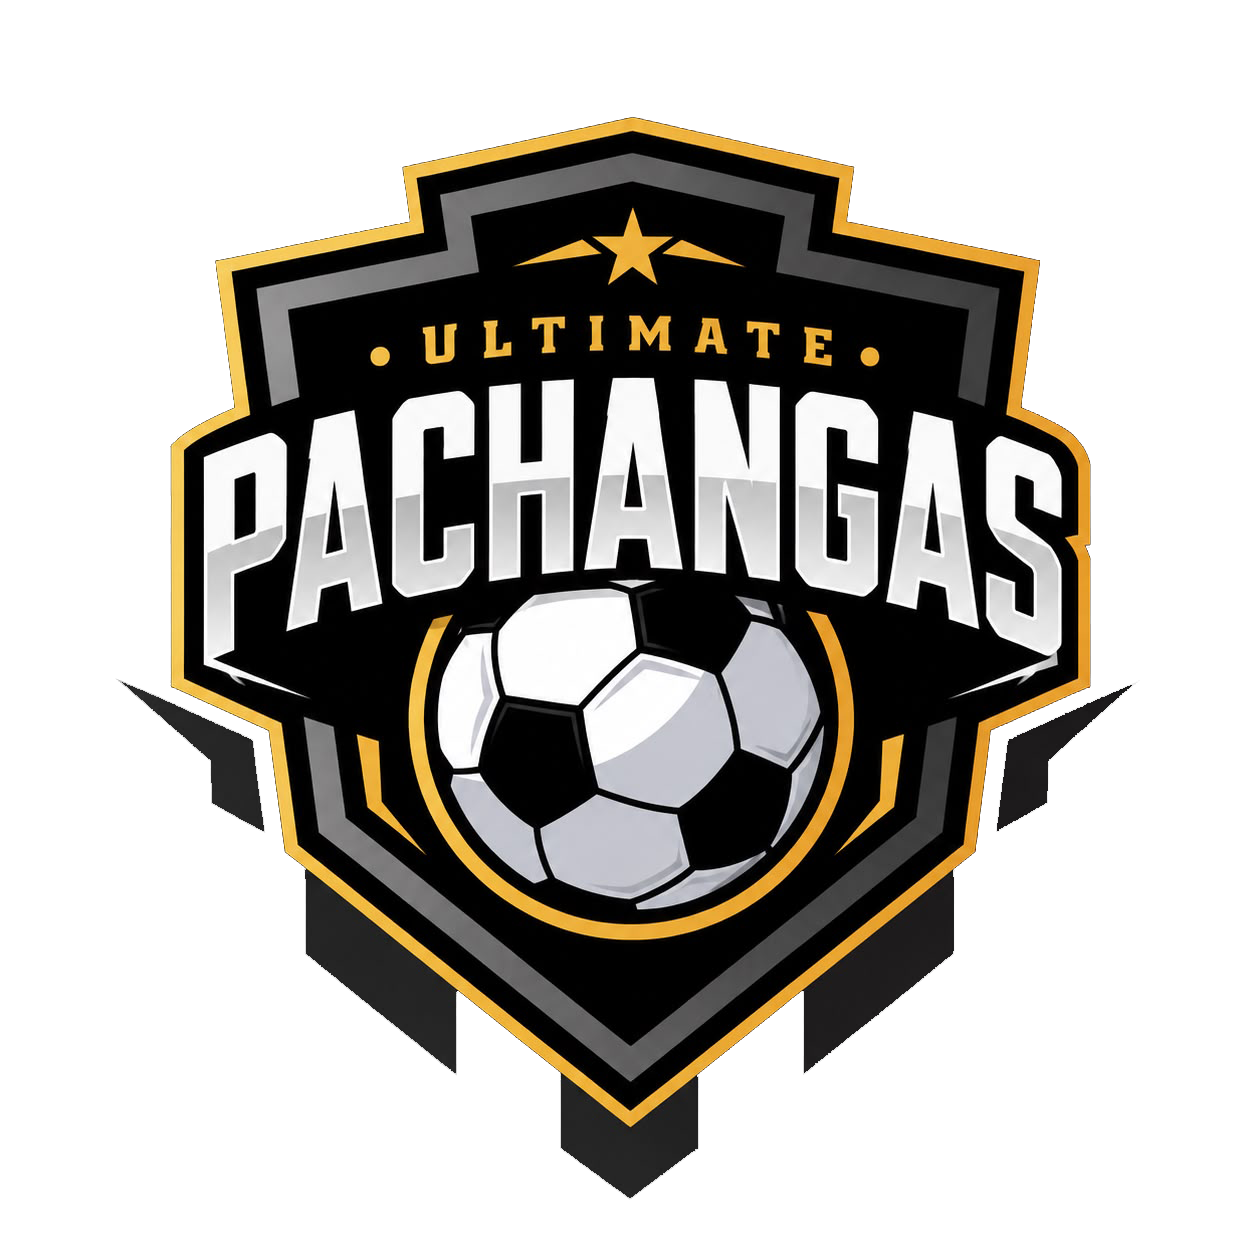
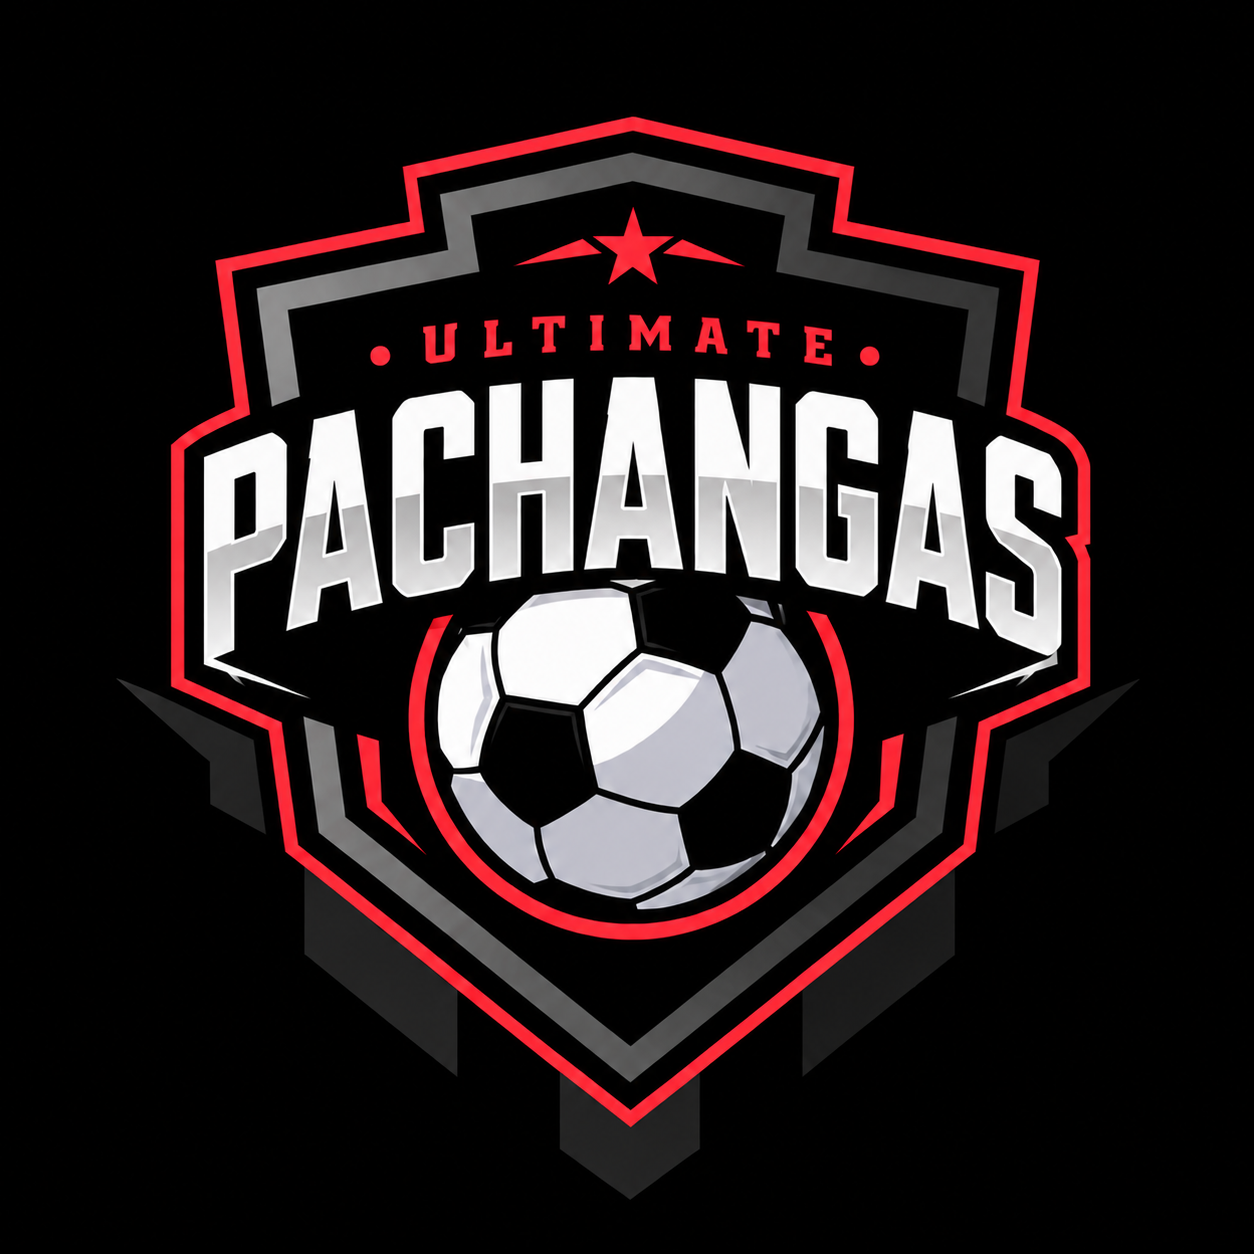
Rebrand Ultimate Pachangas with black surfaces and red accents

diff --git a/src/index.css b/src/index.css
@@ -8,8 +8,7 @@
 /* ---------------------------------------------------------------------------
    Ultimate Pachangas design tokens.
 
-   Dark is the default interface (<html class="dark">); the light palette is
-   kept so the app stays legible if the class is ever removed.
+   Black surfaces and a single red accent in mobile and desktop views.
    --------------------------------------------------------------------------- */
 
 @theme inline {
@@ -87,102 +86,39 @@
   --radius-4xl: calc(var(--radius) * 2.6);
 }
 
-:root {
-  --background: oklch(0.99 0.003 150);
-  --foreground: oklch(0.16 0.012 155);
-  --card: oklch(1 0 0);
-  --card-foreground: oklch(0.16 0.012 155);
-  --popover: oklch(1 0 0);
-  --popover-foreground: oklch(0.16 0.012 155);
-  --primary: oklch(0.5 0.15 148);
-  --primary-foreground: oklch(0.99 0 0);
-  --secondary: oklch(0.96 0.008 150);
-  --secondary-foreground: oklch(0.21 0.015 155);
-  --muted: oklch(0.96 0.008 150);
-  --muted-foreground: oklch(0.5 0.015 155);
-  --accent: oklch(0.94 0.03 148);
-  --accent-foreground: oklch(0.21 0.015 155);
-  --destructive: oklch(0.577 0.245 27.325);
-  --border: oklch(0.9 0.008 150);
-  --input: oklch(0.9 0.008 150);
-  --ring: oklch(0.5 0.15 148);
-  /* Chart series, in slot order.
-
-     Eight hues rather than five, because the evolution chart plots up to eight
-     players at once, and in a fixed order rather than cycled: the order is what
-     makes adjacent series distinguishable under protanopia and deuteranopia.
-     Kept as hex — these are the exact values a colour-vision validator was run
-     against, and rewriting them in oklch would lose that audit trail.
-
-     Three of the light steps (aqua, yellow, magenta) sit below 3:1 against a
-     white surface, so every chart that uses them labels its series in the
-     legend rather than relying on the colour alone. */
-  --chart-1: #2a78d6;
-  --chart-2: #eb6834;
-  --chart-3: #1baf7a;
-  --chart-4: #eda100;
-  --chart-5: #e87ba4;
-  --chart-6: #008300;
-  --chart-7: #4a3aa7;
-  --chart-8: #e34948;
-  --radius: 0.625rem;
-  --sidebar: oklch(0.98 0.005 150);
-  --sidebar-foreground: oklch(0.16 0.012 155);
-  --sidebar-primary: oklch(0.5 0.15 148);
-  --sidebar-primary-foreground: oklch(0.99 0 0);
-  --sidebar-accent: oklch(0.94 0.03 148);
-  --sidebar-accent-foreground: oklch(0.21 0.015 155);
-  --sidebar-border: oklch(0.9 0.008 150);
-  --sidebar-ring: oklch(0.5 0.15 148);
-
-  --pitch: oklch(0.45 0.13 148);
-  --tier-gold: oklch(0.82 0.15 88);
-  --tier-gold-dim: oklch(0.6 0.12 78);
-  --tier-silver: oklch(0.8 0.012 250);
-  --tier-silver-dim: oklch(0.58 0.012 250);
-  --tier-bronze: oklch(0.66 0.11 55);
-  --tier-bronze-dim: oklch(0.46 0.09 48);
-
-  /* Light theme keeps the metal bright, so the face is a pale tint and the
-     text on it stays dark. */
-  --tier-gold-face: oklch(0.93 0.07 90);
-  --tier-gold-face-deep: oklch(0.83 0.11 82);
-  --tier-silver-face: oklch(0.94 0.008 250);
-  --tier-silver-face-deep: oklch(0.85 0.012 250);
-  --tier-bronze-face: oklch(0.9 0.05 58);
-  --tier-bronze-face-deep: oklch(0.78 0.09 50);
-  --attribute-positive: oklch(0.55 0.15 148);
-  --attribute-negative: oklch(0.55 0.19 25);
-}
-
+/* One fixed dark brand palette, shared by every surface and native control.
+   Tier identifiers retain their scoring meaning; their presentation is red/neutral. */
+:root,
 .dark {
-  --background: #0c0d0f;
-  --foreground: #f5f5f3;
-  --card: #191b1f;
-  --card-foreground: #f5f5f3;
-  --popover: #22252a;
-  --popover-foreground: #f5f5f3;
-  --primary: #78b4ff;
-  --primary-foreground: #101923;
-  --secondary: #292c32;
-  --secondary-foreground: #f5f5f3;
-  --muted: #24272c;
-  --muted-foreground: #adb1ba;
-  --accent: #223249;
-  --accent-foreground: #f5f5f3;
-  --destructive: #ff858c;
-  --border: #35383f;
-  --input: #454951;
+  color-scheme: dark;
+  --background: #080808;
+  --foreground: #f5f5f5;
+  --card: #181818;
+  --card-foreground: var(--foreground);
+  --popover: #222222;
+  --popover-foreground: var(--foreground);
+  --primary: #ff4b55;
+  --primary-foreground: #180809;
+  --secondary: #292929;
+  --secondary-foreground: var(--foreground);
+  --muted: #242424;
+  --muted-foreground: #b5b5b5;
+  --accent: #35191c;
+  --accent-foreground: var(--foreground);
+  --destructive: #ff858b;
+  --border: #363636;
+  --input: #484848;
   --ring: var(--primary);
-  --chart-1: #78b4ff;
-  --chart-2: #ffad66;
-  --chart-3: #68dbab;
-  --chart-4: #efd66f;
-  --chart-5: #f499c1;
-  --chart-6: #8ce0e8;
-  --chart-7: #bca3ff;
-  --chart-8: #ff858c;
-  --sidebar: #121316;
+  /* Red and neutral series also carry unique dash patterns and named legends. */
+  --chart-1: var(--primary);
+  --chart-2: #f5f5f5;
+  --chart-3: #aaaaaa;
+  --chart-4: #ff9399;
+  --chart-5: #cccccc;
+  --chart-6: #e8747c;
+  --chart-7: #888888;
+  --chart-8: #ffc4c8;
+  --sidebar: #101010;
   --sidebar-foreground: var(--foreground);
   --sidebar-primary: var(--primary);
   --sidebar-primary-foreground: var(--primary-foreground);
@@ -190,30 +126,30 @@
   --sidebar-accent-foreground: var(--foreground);
   --sidebar-border: var(--border);
   --sidebar-ring: var(--ring);
-  --pitch: #223d35;
-  --tier-gold: #edc66c;
-  --tier-gold-dim: #96763b;
-  --tier-silver: #d1d5dd;
-  --tier-silver-dim: #767e8b;
-  --tier-bronze: #d7a880;
-  --tier-bronze-dim: #8f6249;
-  --tier-gold-face: #302b22;
-  --tier-gold-face-deep: #191b1f;
-  --tier-silver-face: #2b3038;
-  --tier-silver-face-deep: #191b1f;
-  --tier-bronze-face: #322922;
-  --tier-bronze-face-deep: #191b1f;
-  --attribute-positive: #68dbab;
-  --attribute-negative: #ff858c;
+  --pitch: #252525;
+  --tier-gold: var(--primary);
+  --tier-gold-dim: #a5353e;
+  --tier-silver: #dedede;
+  --tier-silver-dim: #808080;
+  --tier-bronze: #b8b8b8;
+  --tier-bronze-dim: #666666;
+  --tier-gold-face: #351b1e;
+  --tier-gold-face-deep: var(--card);
+  --tier-silver-face: #2e2e2e;
+  --tier-silver-face-deep: var(--card);
+  --tier-bronze-face: #242424;
+  --tier-bronze-face-deep: var(--card);
+  --attribute-positive: var(--foreground);
+  --attribute-negative: var(--destructive);
 }
 
 :root {
   --radius: 0.875rem;
-  --signal-up: #68dbab;
-  --signal-down: #ff858c;
-  --signal-hot: #ffad66;
-  --signal-cold: #8ce0e8;
-  --signal-warning: #efd66f;
+  --signal-up: var(--foreground);
+  --signal-down: var(--destructive);
+  --signal-hot: var(--primary);
+  --signal-cold: var(--muted-foreground);
+  --signal-warning: var(--primary);
   --space-unit: 0.25rem;
   --type-label: 0.75rem;
   --type-body: 0.875rem;
@@ -475,8 +411,9 @@
   position: absolute;
   inset: 0;
   background:
-    linear-gradient(0deg, #0c0d0ff2, #0c0d0f50),
+    linear-gradient(0deg, #080808f2, #08080850),
     url('/pitch.webp') center 55% / cover;
+  filter: grayscale(1);
   opacity: 0.7;
 }
 .auth-story > * {
@@ -596,7 +533,7 @@
   background: var(--card);
 }
 .pitch-surface > img {
-  filter: saturate(0.45) brightness(0.65);
+  filter: grayscale(1) brightness(0.65);
 }
 .onboarding-layout {
   padding-block: max(2rem, env(safe-area-inset-top));
@@ -692,12 +629,6 @@
   }
 }
 
-:root {
-  --special-blue: #233e5c;
-  --special-purple: #443056;
-  --special-black: #22252a;
-  --special-legend: #d1d5dd;
-}
 .fixture-strip {
   display: flex;
   gap: 0.5rem;
@@ -746,23 +677,6 @@
 }
 .match-hero h1 {
   color: var(--foreground);
-}
-.player-face[data-face='blue'] {
-  background: linear-gradient(var(--special-blue), var(--card));
-  border-color: var(--chart-4);
-}
-.player-face[data-face='purple'] {
-  background: linear-gradient(var(--special-purple), var(--card));
-  border-color: var(--chart-7);
-}
-.player-face[data-face='black'] {
-  background: linear-gradient(var(--special-black), var(--background));
-  border-color: var(--tier-gold);
-}
-.player-face[data-face='legend'] {
-  background: var(--special-legend);
-  color: var(--background);
-  border-color: var(--foreground);
 }
 @media (max-width: 639px) {
   .ranking-table [data-slot='table-cell'] {
@@ -1139,10 +1053,10 @@
   background: linear-gradient(110deg, var(--accent), var(--card));
 }
 .ideal-seven-theme {
-  --ideal-legend: #ff505b;
-  --ideal-champagne: #ff963e;
-  --ideal-elite: #f0bd4a;
-  --ideal-ivory: #f0ece0;
+  --ideal-legend: var(--primary);
+  --ideal-champagne: #ff9399;
+  --ideal-elite: #b5b5b5;
+  --ideal-ivory: var(--foreground);
 }
 .ideal-seven-theme [data-face='legend'] {
   --card-edge: var(--ideal-legend);

diff --git a/src/components/PlayerCard.tsx b/src/components/PlayerCard.tsx
@@ -44,10 +44,10 @@ type CardFace = CardTier | 'blue' | 'black' | 'legend' | 'purple'
 
 const CARD_FACES: Record<CardFace, string> = {
   ...TIER_FACES,
-  blue: 'from-sky-400 to-blue-950 text-white',
+  blue: 'from-tier-silver-face to-tier-silver-face-deep text-foreground',
   black: 'from-zinc-500 via-zinc-950 to-black text-white',
   legend: 'from-white via-zinc-100 to-zinc-400 text-zinc-950',
-  purple: 'from-fuchsia-500 to-violet-950 text-white',
+  purple: 'from-tier-gold-face to-tier-gold-face-deep text-foreground',
 }
 
 /** The bright metal edge that gives the card its contour. */
@@ -59,10 +59,10 @@ const TIER_EDGES: Record<CardTier, string> = {
 
 const CARD_EDGES: Record<CardFace, string> = {
   ...TIER_EDGES,
-  blue: 'border-sky-300/70',
+  blue: 'border-tier-silver/70',
   black: 'border-zinc-100/80',
   legend: 'border-white/95',
-  purple: 'border-fuchsia-200/80',
+  purple: 'border-primary/80',
 }
 
 const TIER_ACCENTS: Record<CardTier, string> = {
@@ -73,10 +73,10 @@ const TIER_ACCENTS: Record<CardTier, string> = {
 
 const CARD_ACCENTS: Record<CardFace, string> = {
   ...TIER_ACCENTS,
-  blue: 'text-sky-50',
+  blue: 'text-foreground',
   black: 'text-zinc-50',
   legend: 'text-zinc-950',
-  purple: 'text-fuchsia-50',
+  purple: 'text-foreground',
 }
 
 /** Hairlines separating the card's bands, in the tier's own metal. */
@@ -88,10 +88,10 @@ const TIER_RULES: Record<CardTier, string> = {
 
 const CARD_RULES: Record<CardFace, string> = {
   ...TIER_RULES,
-  blue: 'border-sky-100/35',
+  blue: 'border-tier-silver/35',
   black: 'border-white/20',
   legend: 'border-zinc-600/25',
-  purple: 'border-fuchsia-100/35',
+  purple: 'border-primary/35',
 }
 
 /**

diff --git a/index.html b/index.html
@@ -2,13 +2,17 @@
 <html lang="es" class="dark">
   <head>
     <meta charset="UTF-8" />
-    <link rel="icon" type="image/png" href="/ultimate-pachangas.png" />
+    <link
+      rel="icon"
+      type="image/png"
+      href="/ultimate-pachangas.png?v=red-20260925"
+    />
     <meta
       name="viewport"
       content="width=device-width, initial-scale=1.0, viewport-fit=cover"
     />
-    <meta name="theme-color" content="#0c0d0f" />
-    <meta name="color-scheme" content="dark light" />
+    <meta name="theme-color" content="#080808" />
+    <meta name="color-scheme" content="dark" />
     <meta
       name="description"
       content="Gestión de la Liga de verano roco: jugadores, partidos, puntuaciones y valores de mercado."

diff --git a/src/components/ui/sonner.tsx b/src/components/ui/sonner.tsx
@@ -1,4 +1,3 @@
-import { useTheme } from 'next-themes'
 import { Toaster as Sonner, type ToasterProps } from 'sonner'
 import {
   CircleCheckIcon,
@@ -9,11 +8,9 @@ import {
 } from 'lucide-react'
 
 const Toaster = ({ ...props }: ToasterProps) => {
-  const { theme = 'system' } = useTheme()
-
   return (
     <Sonner
-      theme={theme as ToasterProps['theme']}
+      theme="dark"
       className="toaster group"
       icons={{
         success: <CircleCheckIcon className="size-4" />,

diff --git a/src/features/stats/EvolutionChart.tsx b/src/features/stats/EvolutionChart.tsx
@@ -67,7 +67,7 @@ function toLatestValue(
 /**
  * The evolution of a chosen measure across the season's jornadas.
  *
- * Gold and neutral lines also use stable dash patterns. Each series is named
+ * Red and neutral lines also use stable dash patterns. Each series is named
  * and carries its latest figure, so hue is never the only way to identify it. It doubles as the
  * remove control, which is where a reader looks when a line is in the way.
  */

diff --git a/src/components/Brand.tsx b/src/components/Brand.tsx
@@ -4,7 +4,7 @@ export function Brand({ className }: { className?: string }) {
   return (
     <span className={cn('brand-crest', className)}>
       <img
-        src={`${import.meta.env.BASE_URL}ultimate-pachangas.png`}
+        src={`${import.meta.env.BASE_URL}ultimate-pachangas.png?v=red-20260925`}
         alt="Ultimate Pachangas"
       />
     </span>

diff --git a/docs/design/red-rebrand.md b/docs/design/red-rebrand.md
@@ -1,0 +1,14 @@
+# Rebranding negro y rojo
+
+- Fondo casi negro, superficies carbón y texto blanco/gris. Rojo como único acento cromático de la interfaz, en móvil y escritorio.
+- Tokens compartidos para navegación, acciones, foco, premios, tarjetas, estados y gráficas. Se eliminan los antiguos fondos especiales azules y púrpuras y la paleta clara de reserva.
+- Los identificadores internos de las cartas se conservan para no alterar sus categorías ni los cálculos. Las distinciones del 7 ideal mantienen sus nombres e iconos, con contornos rojos y neutros.
+- Las gráficas conservan sus patrones de línea y leyendas; los estados mantienen iconos y etiquetas. El color nunca es su única identificación.
+- Logo principal PNG rojo y favicon actualizado, con versión de recurso para evitar mostrar el anterior desde la caché. Las fotografías de los jugadores se conservan; el campo decorativo se presenta en gris.
+- Notificaciones y controles nativos usan el mismo tema oscuro.
+
+## Validación
+
+593 pruebas existentes superadas, revisión estática, formato y build de GitHub Pages. Contraste calculado: rojo sobre tarjeta 5,40:1, texto del botón 5,93:1, texto secundario 8,66:1 y serie de gráfica más oscura 5,01:1.
+
+Sin cambios en consultas, permisos, autenticación, datos ni cálculos.
